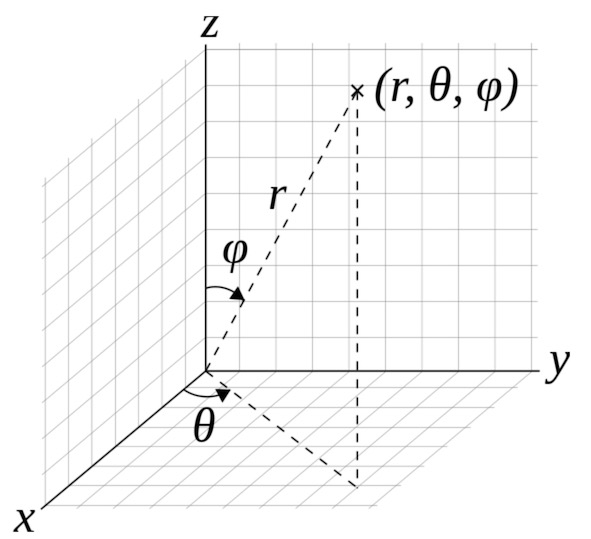
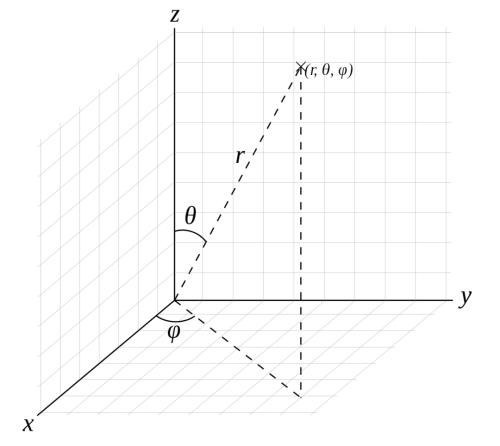
deploy 2020-01-01

diff --git a/css/main.css b/css/main.css
@@ -1,1 +1,1 @@
-html{box-sizing:border-box}*,*::after,*::before{box-sizing:inherit}/*! normalize.css v3.0.2 | MIT License | git.io/normalize */html{font-family:sans-serif;-ms-text-size-adjust:100%;-webkit-text-size-adjust:100%}body{margin:0}.post-content blockquote p{padding-top:0.5em;padding-bottom:0.1em;padding-left:1.0em;border-left-style:solid;border-left-width:0.2px;background:none repeat scroll 0 0 rgba(213,213,213,0.2);color:#605d5d;margin-top:1.0em;margin-bottom:1.0em}.post-content ul{padding:0px;margin:3.6px}.post-content ul li{background-repeat:no-repeat;background-position:0px 5px;padding-left:14px;font-weight:300}.post-content ul li:before{display:inline-block;content:"●";padding-right:10px;color:#666;font-size:6px}article,aside,details,figcaption,figure,footer,header,hgroup,main,menu,nav,section,summary{display:block}audio,canvas,progress,video{display:inline-block;vertical-align:baseline}audio:not([controls]){display:none;height:0}[hidden],template{display:none}a{background-color:transparent}a:active,a:hover{outline:0}abbr[title]{border-bottom:1px dotted}b,strong{font-weight:bold}dfn{font-style:italic}mark{background:#ff0;color:#000}small{font-size:80%}sub,sup{font-size:75%;line-height:0;position:relative;vertical-align:baseline}sup{top:-0.5em}sub{bottom:-0.25em}img{border:0}svg:not(:root){overflow:hidden}figure{margin:1em 40px}hr{box-sizing:content-box;height:0}pre{overflow:auto}code,kbd,pre,samp{font-family:monospace, monospace;font-size:1em}button,input,optgroup,select,textarea{color:inherit;font:inherit;margin:0}button{overflow:visible}button,select{text-transform:none}button,html input[type="button"],input[type="reset"],input[type="submit"]{-webkit-appearance:button;cursor:pointer}button[disabled],html input[disabled]{cursor:default}button::-moz-focus-inner,input::-moz-focus-inner{border:0;padding:0}input{line-height:normal}input[type="checkbox"],input[type="radio"]{box-sizing:border-box;padding:0}input[type="number"]::-webkit-inner-spin-button,input[type="number"]::-webkit-outer-spin-button{height:auto}input[type="search"]{-webkit-appearance:textfield;box-sizing:content-box}input[type="search"]::-webkit-search-cancel-button,input[type="search"]::-webkit-search-decoration{-webkit-appearance:none}fieldset{border:1px solid #c0c0c0;margin:0 2px;padding:0.35em 0.625em 0.75em}legend{border:0;padding:0}textarea{overflow:auto}optgroup{font-weight:bold}table{width:100%;max-width:65em;border:1px solid #dedede;margin:65px;border-collapse:collapse;empty-cells:show}table th,table td{height:35px;border:1px solid #dedede;padding:0 10px}table th{font-weight:bold;text-align:center !important;background:rgba(158,188,226,0.2)}table tbody tr:nth-child(2n){background:rgba(158,188,226,0.12)}table tr:hover{background:#efefef}table th{white-space:nowrap}.table-area{overflow:auto}html,body,div,span,applet,object,iframe,h1,h2,h3,h4,h5,h6,p,blockquote,pre,a,abbr,acronym,address,big,cite,code,del,dfn,em,img,ins,kbd,q,s,samp,small,strike,strong,sub,sup,tt,var,b,u,i,center,dl,dt,dd,ol,ul,li,fieldset,form,label,legend,table,caption,tbody,tfoot,thead,tr,th,td,article,aside,canvas,details,embed,figure,figcaption,footer,header,hgroup,menu,nav,output,ruby,section,summary,time,mark,audio,video{margin:0;padding:0;border:0;font-size:100%;font:inherit;vertical-align:baseline}article,aside,details,figcaption,figure,footer,header,hgroup,menu,nav,section{display:block}body{line-height:1}ol,ul{list-style:none}blockquote,q{quotes:none}blockquote:before,blockquote:after,q:before,q:after{content:'';content:none}table{border-collapse:collapse;border-spacing:0}.btn,.sliding-panel-button{appearance:none;background-color:#337ab7;border:0;border-radius:3px;color:#fff;cursor:pointer;display:inline-block;font-family:"Open Sans","Helvetica Neue","Helvetica","Roboto","Arial",sans-serif;font-size:1em;-webkit-font-smoothing:antialiased;font-weight:600;line-height:1;padding:.75em 1.5em;text-decoration:none;transition:background-color .2s ease;user-select:none;vertical-align:middle;white-space:nowrap}.btn:hover,.sliding-panel-button:hover,.btn:focus,.sliding-panel-button:focus{background-color:#296292;color:#fff}.btn:disabled,.sliding-panel-button:disabled{cursor:not-allowed;opacity:0.5}.btn:disabled:hover,.sliding-panel-button:disabled:hover{background-color:#337ab7}fieldset{background-color:#f7f7f7;border:1px solid #dedede;margin:0 0 .75em;padding:1.5em}input,label,select{display:block;font-family:"Open Sans","Helvetica Neue","Helvetica","Roboto","Arial",sans-serif;font-size:1em}label{font-weight:600;margin-bottom:.375em}label.required::after{content:"*"}label abbr{display:none}input[type="color"],input[type="date"],input[type="datetime"],input[type="datetime-local"],input[type="email"],input[type="month"],input[type="number"],input[type="password"],input[type="search"],input[type="tel"],input[type="text"],input[type="time"],input[type="url"],input[type="week"],input:not([type]),textarea,select[multiple=multiple]{background-color:#fff;border:1px solid #dedede;border-radius:3px;box-shadow:inset 0 1px 3px rgba(0,0,0,0.06);box-sizing:border-box;font-family:"Open Sans","Helvetica Neue","Helvetica","Roboto","Arial",sans-serif;font-size:1em;margin-bottom:.75em;padding:.5em;transition:border-color .2s ease;width:100%}input[type="color"]:hover,input[type="date"]:hover,input[type="datetime"]:hover,input[type="datetime-local"]:hover,input[type="email"]:hover,input[type="month"]:hover,input[type="number"]:hover,input[type="password"]:hover,input[type="search"]:hover,input[type="tel"]:hover,input[type="text"]:hover,input[type="time"]:hover,input[type="url"]:hover,input[type="week"]:hover,input:not([type]):hover,textarea:hover,select[multiple=multiple]:hover{border-color:#b2b2b2}input[type="color"]:focus,input[type="date"]:focus,input[type="datetime"]:focus,input[type="datetime-local"]:focus,input[type="email"]:focus,input[type="month"]:focus,input[type="number"]:focus,input[type="password"]:focus,input[type="search"]:focus,input[type="tel"]:focus,input[type="text"]:focus,input[type="time"]:focus,input[type="url"]:focus,input[type="week"]:focus,input:not([type]):focus,textarea:focus,select[multiple=multiple]:focus{border-color:#337ab7;box-shadow:inset 0 1px 3px rgba(0,0,0,0.06),0 0 5px rgba(45,109,163,0.7);outline:none}input[type="color"]:disabled,input[type="date"]:disabled,input[type="datetime"]:disabled,input[type="datetime-local"]:disabled,input[type="email"]:disabled,input[type="month"]:disabled,input[type="number"]:disabled,input[type="password"]:disabled,input[type="search"]:disabled,input[type="tel"]:disabled,input[type="text"]:disabled,input[type="time"]:disabled,input[type="url"]:disabled,input[type="week"]:disabled,input:not([type]):disabled,textarea:disabled,select[multiple=multiple]:disabled{background-color:#f2f2f2;cursor:not-allowed}input[type="color"]:disabled:hover,input[type="date"]:disabled:hover,input[type="datetime"]:disabled:hover,input[type="datetime-local"]:disabled:hover,input[type="email"]:disabled:hover,input[type="month"]:disabled:hover,input[type="number"]:disabled:hover,input[type="password"]:disabled:hover,input[type="search"]:disabled:hover,input[type="tel"]:disabled:hover,input[type="text"]:disabled:hover,input[type="time"]:disabled:hover,input[type="url"]:disabled:hover,input[type="week"]:disabled:hover,input:not([type]):disabled:hover,textarea:disabled:hover,select[multiple=multiple]:disabled:hover{border:1px solid #dedede}textarea{resize:vertical}input[type="search"]{appearance:none}input[type="checkbox"],input[type="radio"]{display:inline;margin-right:.375em}input[type="checkbox"]+label,input[type="radio"]+label{display:inline-block}input[type="file"]{margin-bottom:.75em;width:100%}select{margin-bottom:1.5em;max-width:100%;width:auto}ul,ol{list-style-type:none;margin:0;padding:0}dl{margin-bottom:.75em}dl dt{font-weight:bold;margin-top:.75em}dl dd{margin:0}table{border-collapse:collapse;font-feature-settings:"kern", "liga", "tnum";margin:.75em 0;table-layout:fixed;width:100%}th{border-bottom:1px solid #a7a7a7;font-weight:600;padding:.75em 0;text-align:left}td{border-bottom:1px solid #dedede;padding:.75em 0}tr,td,th{vertical-align:middle}body{color:#636363;font-family:"Open Sans","Helvetica Neue","Helvetica","Roboto","Arial",sans-serif;font-feature-settings:"kern", "liga", "pnum";font-size:1em;font-weight:400;line-height:1.5}p{margin:0 0 .75em;font-weight:300}em{font-style:italic}small{font-size:80%}a{color:#337ab7;text-decoration:none;-webkit-transition:color .2s ease;-moz-transition:color .2s ease;transition:color .2s ease}a:active,a:focus,a:hover{color:#265c89}hr{border-bottom:1px solid #dedede;border-left:0;border-right:0;border-top:0;margin:1.5em 0}img,picture{margin:0;max-width:100%}code{padding:2px 4px;font-family:Consolas, "Liberation Mono", Menlo, Courier, monospace;font-size:0.9rem;color:#222323;background-color:#f6f6f8;border-radius:0.3rem}pre{padding:0.8rem;margin-top:0;margin-bottom:1rem;font:1rem Consolas, "Liberation Mono", Menlo, Courier, monospace;color:#222323;word-wrap:normal;background-color:#f6f6f8;border:solid 1px #dce6f0;border-radius:0.3rem}pre>code{padding:0;margin:0;font-size:0.9rem;line-height:22px;color:#222323;word-break:normal;white-space:pre;background:transparent;border:0}.highlight{margin-bottom:1rem}.highlight pre{margin-bottom:0;word-break:normal}pre code,pre tt{display:inline;max-width:initial;padding:0;margin:0;overflow:initial;line-height:21px;word-wrap:normal;background-color:transparent;border:0}pre code:before,pre code:after,pre tt:before,pre tt:after{content:normal}.txt-primary{color:#337ab7}.txt-white{color:#fff}.txt-black{color:#000}.txt-blue{color:#477dca}.txt-dark-gray{color:#232323}.txt-medium-gray{color:#9a9a9a}.txt-light-gray{color:#dedede}.txt-left{text-align:left}.txt-right{text-align:right}.txt-center{text-align:center}.txt-justify{text-align:justify}.word-wrap{overflow-wrap:break-word;word-wrap:break-word;word-break:break-all}.dot{border-radius:50%}.site-header::after,.social::after,.pagination::after{clear:both;content:"";display:table}html,body{min-height:100%;height:100%}body{border-top:5px solid #337ab7;background:#fff url("../img/bg-pattern.png")}.container{max-width:800px;margin-left:auto;margin-right:auto;padding-left:.75em;padding-right:.75em}.container::after{clear:both;content:"";display:table}.card,.post-list .post{background-color:#fff;box-shadow:0 2px 1px rgba(0,0,0,0.1);margin:0 0 1.5em;padding:1.5em .75em}@media screen and (min-width: 480px){.card,.post-list .post{padding:1.5em}}.site-header{background-color:#fff;padding:1.5em 0;margin-bottom:1.5em;border-bottom:1px solid rgba(222,222,222,0.5)}.site-header h1{margin:0;padding:5px 0;float:left;font-weight:400;font-size:1.25rem}.site-header h1 span{color:#337ab7}.site-header h1,.site-header a{text-transform:lowercase}.site-header .navbar{float:right}.site-header a{color:#9a9a9a}.site-header a:hover,.site-header a:focus,.site-header a:active{color:#232323}@media screen and (max-width: 480px){.site-header .container{padding-left:1.5em;padding-right:1.5em}}.sliding-panel-button{float:right;padding:5px}.sliding-panel-button span{width:30px;display:block;height:3px;border-radius:2px;background:#fff;margin:3px 0}@media screen and (min-width: 480px){.sliding-panel-button{display:none}}@media screen and (max-width: 480px){.sliding-panel-content{border-top:5px solid #337ab7;position:fixed;top:0;right:auto;bottom:0;left:0;height:100%;width:220px;-webkit-transform:translateX(-100%);-moz-transform:translateX(-100%);-ms-transform:translateX(-100%);-o-transform:translateX(-100%);transform:translateX(-100%);-webkit-transition:all 0.25s linear;-moz-transition:all 0.25s linear;transition:all 0.25s linear;background:#fff;-webkit-overflow-scrolling:touch;overflow-y:auto;z-index:999999}.sliding-panel-content.is-visible{-webkit-transform:translateX(0);-moz-transform:translateX(0);-ms-transform:translateX(0);-o-transform:translateX(0);transform:translateX(0)}.sliding-panel-fade-screen{position:fixed;top:0;right:0;bottom:0;left:0;-webkit-transition:all 0.15s ease-out 0s;-moz-transition:all 0.15s ease-out 0s;transition:all 0.15s ease-out 0s;background:#000;opacity:0;visibility:hidden;z-index:9999}.sliding-panel-fade-screen.is-visible{opacity:0.4;visibility:visible}.sliding-panel-close{cursor:pointer}}.navbar li,.navbar a{display:inline-block}.navbar a{padding:5px 15px}@media screen and (max-width: 600px){.navbar a{padding:5px 10px}}@media screen and (max-width: 480px){.navbar li,.navbar a{display:block;text-align:center}.navbar li{border-bottom:1px solid #f2f2f2}.navbar a{padding:15px 0}}.btn.btn-ghost,.btn-ghost.sliding-panel-button{background-color:transparent;border:2px solid #337ab7;color:#337ab7}.btn.disabled,.disabled.sliding-panel-button,.btn[disabled],[disabled].sliding-panel-button,fieldset[disabled] .btn,fieldset[disabled] .sliding-panel-button{cursor:not-allowed;filter:alpha(opacity=65);-webkit-box-shadow:none;box-shadow:none;opacity:.65}body.home{width:100%;display:table}.hero{text-align:center;display:table-cell;vertical-align:middle}.hero-inner{text-align:center;display:inline-block;padding:1.5em}.hero-inner .dot{padding:5px;border:1px solid #dedede}.hero-inner h1{margin-top:.7em;font-size:2.5rem}.hero-inner h3{margin:.8em 0 1.2em}@media screen and (min-width: 600px){.hero-inner h3{font-size:1.5rem}}.hero-inner h3,.hero-inner em{font-weight:300}.hero-inner em{color:#337ab7}.hero-inner strong{font-weight:700}.post{padding:1.5em 0}.post-header{margin-bottom:1.5em}.post-title{font-size:2.5rem;margin-bottom:0;line-height:1.5em}.post-title2{font-size:1.5625rem;margin-bottom:0;line-height:1.4em}.post-list .post a{color:#636363}.post-list .post a:hover,.post-list .post a:active,.post-list .post a:focus{color:#337ab7}.social{padding:1.5em 0}.social li{display:inline-block;padding:0 .6em}.social a{color:#9a9a9a}.social a:hover,.social a:active,.social a:focus{color:#337ab7}.social i{font-size:1.2em}.pagination{text-align:center;margin:2em 0}.pagination li{padding:0 .4em}.pagination li,.pagination a,.pagination span{display:inline-block}.pagination a,.pagination span{line-height:1.2em;font-size:.75rem}.pagination .btn,.pagination .sliding-panel-button{color:#636363;border-color:rgba(222,222,222,0.8)}.pagination span{color:#aaa;font-style:italic}.site-footer{background-color:#fff;border-top:1px solid rgba(222,222,222,0.5);padding:1.5em;text-align:center}.site-footer p{margin:0}.github-corner:hover .octo-arm{animation:octocat-wave 560ms ease-in-out}@keyframes octocat-wave{0%,100%{transform:rotate(0)}20%,60%{transform:rotate(-25deg)}40%,80%{transform:rotate(10deg)}}@media (max-width: 500px){.github-corner:hover .octo-arm{animation:none}.github-corner .octo-arm{animation:octocat-wave 560ms ease-in-out}}@font-face{font-family:"ico";src:url("../fonts/ico.eot?vs69d0");src:url("../fonts/ico.eot?vs69d0#iefix") format("embedded-opentype"),url("../fonts/ico.ttf?vs69d0") format("truetype"),url("../fonts/ico.woff?vs69d0") format("woff"),url("../fonts/ico.svg?vs69d0#ico") format("svg");font-weight:normal;font-style:normal}.icon{font-family:"ico" !important;speak:none;font-style:normal;font-weight:normal;font-variant:normal;text-transform:none;line-height:1;-webkit-font-smoothing:antialiased;-moz-osx-font-smoothing:grayscale}.icon-home:before{content:""}.icon-zhihu:before{content:""}.icon-share:before{content:""}.icon-sina:before{content:""}.icon-facebook:before{content:""}.icon-twitter:before{content:""}.icon-feed:before{content:""}.icon-github:before{content:""}.icon-linkedin:before{content:""}.highlight .hll{background-color:#ffc}.highlight{background:#ffffff}.highlight .c{color:#aaaaaa;font-style:italic}.highlight .err{color:#FF0000;background-color:#faa}.highlight .k{color:#00a}.highlight .ch{color:#aaaaaa;font-style:italic}.highlight .cm{color:#aaaaaa;font-style:italic}.highlight .cp{color:#4c8317}.highlight .cpf{color:#aaaaaa;font-style:italic}.highlight .c1{color:#aaaaaa;font-style:italic}.highlight .cs{color:#0000aa;font-style:italic}.highlight .gd{color:#a00}.highlight .ge{font-style:italic}.highlight .gr{color:#a00}.highlight .gh{color:#000080;font-weight:bold}.highlight .gi{color:#0a0}.highlight .go{color:#888}.highlight .gp{color:#555}.highlight .gs{font-weight:bold}.highlight .gu{color:#800080;font-weight:bold}.highlight .gt{color:#a00}.highlight .kc{color:#00a}.highlight .kd{color:#00a}.highlight .kn{color:#00a}.highlight .kp{color:#00a}.highlight .kr{color:#00a}.highlight .kt{color:#0aa}.highlight .m{color:#099}.highlight .s{color:#a50}.highlight .na{color:#1e90ff}.highlight .nb{color:#0aa}.highlight .nc{color:#00aa00;text-decoration:underline}.highlight .no{color:#a00}.highlight .nd{color:#888}.highlight .ni{color:#880000;font-weight:bold}.highlight .nf{color:#0a0}.highlight .nn{color:#00aaaa;text-decoration:underline}.highlight .nt{color:#1e90ff;font-weight:bold}.highlight .nv{color:#a00}.highlight .ow{color:#00a}.highlight .w{color:#bbb}.highlight .mb{color:#099}.highlight .mf{color:#099}.highlight .mh{color:#099}.highlight .mi{color:#099}.highlight .mo{color:#099}.highlight .sa{color:#a50}.highlight .sb{color:#a50}.highlight .sc{color:#a50}.highlight .dl{color:#a50}.highlight .sd{color:#a50}.highlight .s2{color:#a50}.highlight .se{color:#a50}.highlight .sh{color:#a50}.highlight .si{color:#a50}.highlight .sx{color:#a50}.highlight .sr{color:#099}.highlight .s1{color:#a50}.highlight .ss{color:#00a}.highlight .bp{color:#0aa}.highlight .fm{color:#0a0}.highlight .vc{color:#a00}.highlight .vg{color:#a00}.highlight .vi{color:#a00}.highlight .vm{color:#a00}.highlight .il{color:#099}@media screen and (min-width: 64em){max-width:64rem;padding:2rem 6rem;margin:0 auto;font-size:1.1rem}@media screen and (min-width: 42em) and (max-width: 64em){padding:2rem 4rem;font-size:1.1rem}@media screen and (max-width: 42em){padding:2rem 1rem;font-size:1rem}img{max-width:100%}h1{margin:0.67em 0.0em}h2,h3{margin-top:2rem;margin-bottom:1rem;font-weight:normal;color:#505050}h4,h5,h6{margin-top:1.0rem;margin-bottom:0.4rem;font-weight:normal;color:#505050}h1{font-size:2.2rem}h2{font-size:1.8rem}h3{font-size:1.5rem}h4{font-size:1.3rem}h5{font-size:1.2rem}h6{font-size:1.1rem}
+html{box-sizing:border-box}*,*::after,*::before{box-sizing:inherit}/*! normalize.css v3.0.2 | MIT License | git.io/normalize */html{font-family:sans-serif;-ms-text-size-adjust:100%;-webkit-text-size-adjust:100%}body{margin:0}.post-content blockquote p{padding-top:0.5em;padding-bottom:0.1em;padding-left:1.0em;border-left-style:solid;border-left-width:0.2px;background:none repeat scroll 0 0 rgba(213,213,213,0.2);color:#605d5d;margin-top:1.0em;margin-bottom:1.0em}.post-content ul{padding:0px;margin:3.6px}.post-content ul li{background-repeat:no-repeat;background-position:0px 5px;padding-left:14px;font-weight:300}.post-content ul li:before{display:inline-block;content:"●";padding-right:10px;color:#666;font-size:6px}article,aside,details,figcaption,figure,footer,header,hgroup,main,menu,nav,section,summary{display:block}audio,canvas,progress,video{display:inline-block;vertical-align:baseline}audio:not([controls]){display:none;height:0}[hidden],template{display:none}a{background-color:transparent}a:active,a:hover{outline:0}abbr[title]{border-bottom:1px dotted}b,strong{font-weight:bold}dfn{font-style:italic}mark{background:#ff0;color:#000}small{font-size:80%}sub,sup{font-size:75%;line-height:0;position:relative;vertical-align:baseline}sup{top:-0.5em}sub{bottom:-0.25em}img{border:0}svg:not(:root){overflow:hidden}figure{margin:1em 40px}hr{box-sizing:content-box;height:0}pre{overflow:auto}code,kbd,pre,samp{font-family:monospace, monospace;font-size:1em}button,input,optgroup,select,textarea{color:inherit;font:inherit;margin:0}button{overflow:visible}button,select{text-transform:none}button,html input[type="button"],input[type="reset"],input[type="submit"]{-webkit-appearance:button;cursor:pointer}button[disabled],html input[disabled]{cursor:default}button::-moz-focus-inner,input::-moz-focus-inner{border:0;padding:0}input{line-height:normal}input[type="checkbox"],input[type="radio"]{box-sizing:border-box;padding:0}input[type="number"]::-webkit-inner-spin-button,input[type="number"]::-webkit-outer-spin-button{height:auto}input[type="search"]{-webkit-appearance:textfield;box-sizing:content-box}input[type="search"]::-webkit-search-cancel-button,input[type="search"]::-webkit-search-decoration{-webkit-appearance:none}fieldset{border:1px solid #c0c0c0;margin:0 2px;padding:0.35em 0.625em 0.75em}legend{border:0;padding:0}textarea{overflow:auto}optgroup{font-weight:bold}table{width:100%;max-width:65em;border:1px solid #dedede;margin:65px;border-collapse:collapse;empty-cells:show}table th,table td{height:35px;border:1px solid #dedede;padding:0 10px}table th{font-weight:bold;text-align:center !important;background:rgba(158,188,226,0.2)}table tbody tr:nth-child(2n){background:rgba(158,188,226,0.12)}table tr:hover{background:#efefef}table th{white-space:nowrap}.table-area{overflow:auto}html,body,div,span,applet,object,iframe,h1,h2,h3,h4,h5,h6,p,blockquote,pre,a,abbr,acronym,address,big,cite,code,del,dfn,em,img,ins,kbd,q,s,samp,small,strike,sub,sup,tt,var,u,i,center,dl,dt,dd,ol,ul,li,fieldset,form,label,legend,table,caption,tbody,tfoot,thead,tr,th,td,article,aside,canvas,details,embed,figure,figcaption,footer,header,hgroup,menu,nav,output,ruby,section,summary,time,mark,audio,video{margin:0;padding:0;border:0;font-size:100%;font:inherit;vertical-align:baseline}article,aside,details,figcaption,figure,footer,header,hgroup,menu,nav,section{display:block}body{line-height:1}ol,ul{list-style:none}blockquote,q{quotes:none}blockquote:before,blockquote:after,q:before,q:after{content:'';content:none}table{border-collapse:collapse;border-spacing:0}.btn,.sliding-panel-button{appearance:none;background-color:#337ab7;border:0;border-radius:3px;color:#fff;cursor:pointer;display:inline-block;font-family:"Open Sans","Helvetica Neue","Helvetica","Roboto","Arial",sans-serif;font-size:1em;-webkit-font-smoothing:antialiased;font-weight:600;line-height:1;padding:.75em 1.5em;text-decoration:none;transition:background-color .2s ease;user-select:none;vertical-align:middle;white-space:nowrap}.btn:hover,.sliding-panel-button:hover,.btn:focus,.sliding-panel-button:focus{background-color:#296292;color:#fff}.btn:disabled,.sliding-panel-button:disabled{cursor:not-allowed;opacity:0.5}.btn:disabled:hover,.sliding-panel-button:disabled:hover{background-color:#337ab7}fieldset{background-color:#f7f7f7;border:1px solid #dedede;margin:0 0 .75em;padding:1.5em}input,label,select{display:block;font-family:"Open Sans","Helvetica Neue","Helvetica","Roboto","Arial",sans-serif;font-size:1em}label{font-weight:600;margin-bottom:.375em}label.required::after{content:"*"}label abbr{display:none}input[type="color"],input[type="date"],input[type="datetime"],input[type="datetime-local"],input[type="email"],input[type="month"],input[type="number"],input[type="password"],input[type="search"],input[type="tel"],input[type="text"],input[type="time"],input[type="url"],input[type="week"],input:not([type]),textarea,select[multiple=multiple]{background-color:#fff;border:1px solid #dedede;border-radius:3px;box-shadow:inset 0 1px 3px rgba(0,0,0,0.06);box-sizing:border-box;font-family:"Open Sans","Helvetica Neue","Helvetica","Roboto","Arial",sans-serif;font-size:1em;margin-bottom:.75em;padding:.5em;transition:border-color .2s ease;width:100%}input[type="color"]:hover,input[type="date"]:hover,input[type="datetime"]:hover,input[type="datetime-local"]:hover,input[type="email"]:hover,input[type="month"]:hover,input[type="number"]:hover,input[type="password"]:hover,input[type="search"]:hover,input[type="tel"]:hover,input[type="text"]:hover,input[type="time"]:hover,input[type="url"]:hover,input[type="week"]:hover,input:not([type]):hover,textarea:hover,select[multiple=multiple]:hover{border-color:#b2b2b2}input[type="color"]:focus,input[type="date"]:focus,input[type="datetime"]:focus,input[type="datetime-local"]:focus,input[type="email"]:focus,input[type="month"]:focus,input[type="number"]:focus,input[type="password"]:focus,input[type="search"]:focus,input[type="tel"]:focus,input[type="text"]:focus,input[type="time"]:focus,input[type="url"]:focus,input[type="week"]:focus,input:not([type]):focus,textarea:focus,select[multiple=multiple]:focus{border-color:#337ab7;box-shadow:inset 0 1px 3px rgba(0,0,0,0.06),0 0 5px rgba(45,109,163,0.7);outline:none}input[type="color"]:disabled,input[type="date"]:disabled,input[type="datetime"]:disabled,input[type="datetime-local"]:disabled,input[type="email"]:disabled,input[type="month"]:disabled,input[type="number"]:disabled,input[type="password"]:disabled,input[type="search"]:disabled,input[type="tel"]:disabled,input[type="text"]:disabled,input[type="time"]:disabled,input[type="url"]:disabled,input[type="week"]:disabled,input:not([type]):disabled,textarea:disabled,select[multiple=multiple]:disabled{background-color:#f2f2f2;cursor:not-allowed}input[type="color"]:disabled:hover,input[type="date"]:disabled:hover,input[type="datetime"]:disabled:hover,input[type="datetime-local"]:disabled:hover,input[type="email"]:disabled:hover,input[type="month"]:disabled:hover,input[type="number"]:disabled:hover,input[type="password"]:disabled:hover,input[type="search"]:disabled:hover,input[type="tel"]:disabled:hover,input[type="text"]:disabled:hover,input[type="time"]:disabled:hover,input[type="url"]:disabled:hover,input[type="week"]:disabled:hover,input:not([type]):disabled:hover,textarea:disabled:hover,select[multiple=multiple]:disabled:hover{border:1px solid #dedede}textarea{resize:vertical}input[type="search"]{appearance:none}input[type="checkbox"],input[type="radio"]{display:inline;margin-right:.375em}input[type="checkbox"]+label,input[type="radio"]+label{display:inline-block}input[type="file"]{margin-bottom:.75em;width:100%}select{margin-bottom:1.5em;max-width:100%;width:auto}ul,ol{list-style-type:none;margin:0;padding:0}dl{margin-bottom:.75em}dl dt{font-weight:bold;margin-top:.75em}dl dd{margin:0}table{border-collapse:collapse;font-feature-settings:"kern", "liga", "tnum";margin:.75em 0;table-layout:fixed;width:100%}th{border-bottom:1px solid #a7a7a7;font-weight:600;padding:.75em 0;text-align:left}td{border-bottom:1px solid #dedede;padding:.75em 0}tr,td,th{vertical-align:middle}body{color:#636363;font-family:"Open Sans","Helvetica Neue","Helvetica","Roboto","Arial",sans-serif;font-feature-settings:"kern", "liga", "pnum";font-size:1em;font-weight:400;line-height:1.5}p{margin:0 0 .75em;font-weight:300}em{font-style:italic}small{font-size:80%}a{color:#337ab7;text-decoration:none;-webkit-transition:color .2s ease;-moz-transition:color .2s ease;transition:color .2s ease}a:active,a:focus,a:hover{color:#265c89}hr{border-bottom:1px solid #dedede;border-left:0;border-right:0;border-top:0;margin:1.5em 0}img,picture{margin:0;max-width:100%}code{padding:2px 4px;font-family:Consolas, "Liberation Mono", Menlo, Courier, monospace;font-size:0.9rem;color:#222323;background-color:#f6f6f8;border-radius:0.3rem}pre{padding:0.8rem;margin-top:0;margin-bottom:1rem;font:1rem Consolas, "Liberation Mono", Menlo, Courier, monospace;color:#222323;word-wrap:normal;background-color:#f6f6f8;border:solid 1px #dce6f0;border-radius:0.3rem}pre>code{padding:0;margin:0;font-size:0.9rem;line-height:22px;color:#222323;word-break:normal;white-space:pre;background:transparent;border:0}.highlight{margin-bottom:1rem}.highlight pre{margin-bottom:0;word-break:normal}pre code,pre tt{display:inline;max-width:initial;padding:0;margin:0;overflow:initial;line-height:21px;word-wrap:normal;background-color:transparent;border:0}pre code:before,pre code:after,pre tt:before,pre tt:after{content:normal}.txt-primary{color:#337ab7}.txt-white{color:#fff}.txt-black{color:#000}.txt-blue{color:#477dca}.txt-dark-gray{color:#232323}.txt-medium-gray{color:#9a9a9a}.txt-light-gray{color:#dedede}.txt-left{text-align:left}.txt-right{text-align:right}.txt-center{text-align:center}.txt-justify{text-align:justify}.word-wrap{overflow-wrap:break-word;word-wrap:break-word;word-break:break-all}.dot{border-radius:50%}.site-header::after,.social::after,.pagination::after{clear:both;content:"";display:table}html,body{min-height:100%;height:100%}body{border-top:5px solid #337ab7;background:#fff url("../img/bg-pattern.png")}.container{max-width:800px;margin-left:auto;margin-right:auto;padding-left:.75em;padding-right:.75em}.container::after{clear:both;content:"";display:table}.card,.post-list .post{background-color:#fff;box-shadow:0 2px 1px rgba(0,0,0,0.1);margin:0 0 1.5em;padding:1.5em .75em}@media screen and (min-width: 480px){.card,.post-list .post{padding:1.5em}}.site-header{background-color:#fff;padding:1.5em 0;margin-bottom:1.5em;border-bottom:1px solid rgba(222,222,222,0.5)}.site-header h1{margin:0;padding:5px 0;float:left;font-weight:400;font-size:1.25rem}.site-header h1 span{color:#337ab7}.site-header h1,.site-header a{text-transform:lowercase}.site-header .navbar{float:right}.site-header a{color:#9a9a9a}.site-header a:hover,.site-header a:focus,.site-header a:active{color:#232323}@media screen and (max-width: 480px){.site-header .container{padding-left:1.5em;padding-right:1.5em}}.sliding-panel-button{float:right;padding:5px}.sliding-panel-button span{width:30px;display:block;height:3px;border-radius:2px;background:#fff;margin:3px 0}@media screen and (min-width: 480px){.sliding-panel-button{display:none}}@media screen and (max-width: 480px){.sliding-panel-content{border-top:5px solid #337ab7;position:fixed;top:0;right:auto;bottom:0;left:0;height:100%;width:220px;-webkit-transform:translateX(-100%);-moz-transform:translateX(-100%);-ms-transform:translateX(-100%);-o-transform:translateX(-100%);transform:translateX(-100%);-webkit-transition:all 0.25s linear;-moz-transition:all 0.25s linear;transition:all 0.25s linear;background:#fff;-webkit-overflow-scrolling:touch;overflow-y:auto;z-index:999999}.sliding-panel-content.is-visible{-webkit-transform:translateX(0);-moz-transform:translateX(0);-ms-transform:translateX(0);-o-transform:translateX(0);transform:translateX(0)}.sliding-panel-fade-screen{position:fixed;top:0;right:0;bottom:0;left:0;-webkit-transition:all 0.15s ease-out 0s;-moz-transition:all 0.15s ease-out 0s;transition:all 0.15s ease-out 0s;background:#000;opacity:0;visibility:hidden;z-index:9999}.sliding-panel-fade-screen.is-visible{opacity:0.4;visibility:visible}.sliding-panel-close{cursor:pointer}}.navbar li,.navbar a{display:inline-block}.navbar a{padding:5px 15px}@media screen and (max-width: 600px){.navbar a{padding:5px 10px}}@media screen and (max-width: 480px){.navbar li,.navbar a{display:block;text-align:center}.navbar li{border-bottom:1px solid #f2f2f2}.navbar a{padding:15px 0}}.btn.btn-ghost,.btn-ghost.sliding-panel-button{background-color:transparent;border:2px solid #337ab7;color:#337ab7}.btn.disabled,.disabled.sliding-panel-button,.btn[disabled],[disabled].sliding-panel-button,fieldset[disabled] .btn,fieldset[disabled] .sliding-panel-button{cursor:not-allowed;filter:alpha(opacity=65);-webkit-box-shadow:none;box-shadow:none;opacity:.65}body.home{width:100%;display:table}.hero{text-align:center;display:table-cell;vertical-align:middle}.hero-inner{text-align:center;display:inline-block;padding:1.5em}.hero-inner .dot{padding:5px;border:1px solid #dedede}.hero-inner h1{margin-top:.7em;font-size:2.5rem}.hero-inner h3{margin:.8em 0 1.2em}@media screen and (min-width: 600px){.hero-inner h3{font-size:1.5rem}}.hero-inner h3,.hero-inner em{font-weight:300}.hero-inner em{color:#337ab7}.hero-inner strong{font-weight:700}.post{padding:1.5em 0}.post-header{margin-bottom:1.5em}.post-title{font-size:2.5rem;margin-bottom:0;line-height:1.5em}.post-title2{font-size:1.5625rem;margin-bottom:0;line-height:1.4em}.post-list .post a{color:#636363}.post-list .post a:hover,.post-list .post a:active,.post-list .post a:focus{color:#337ab7}.social{padding:1.5em 0}.social li{display:inline-block;padding:0 .6em}.social a{color:#9a9a9a}.social a:hover,.social a:active,.social a:focus{color:#337ab7}.social i{font-size:1.2em}.pagination{text-align:center;margin:2em 0}.pagination li{padding:0 .4em}.pagination li,.pagination a,.pagination span{display:inline-block}.pagination a,.pagination span{line-height:1.2em;font-size:.75rem}.pagination .btn,.pagination .sliding-panel-button{color:#636363;border-color:rgba(222,222,222,0.8)}.pagination span{color:#aaa;font-style:italic}.site-footer{background-color:#fff;border-top:1px solid rgba(222,222,222,0.5);padding:1.5em;text-align:center}.site-footer p{margin:0}.github-corner:hover .octo-arm{animation:octocat-wave 560ms ease-in-out}@keyframes octocat-wave{0%,100%{transform:rotate(0)}20%,60%{transform:rotate(-25deg)}40%,80%{transform:rotate(10deg)}}@media (max-width: 500px){.github-corner:hover .octo-arm{animation:none}.github-corner .octo-arm{animation:octocat-wave 560ms ease-in-out}}@font-face{font-family:"ico";src:url("../fonts/ico.eot?vs69d0");src:url("../fonts/ico.eot?vs69d0#iefix") format("embedded-opentype"),url("../fonts/ico.ttf?vs69d0") format("truetype"),url("../fonts/ico.woff?vs69d0") format("woff"),url("../fonts/ico.svg?vs69d0#ico") format("svg");font-weight:normal;font-style:normal}.icon{font-family:"ico" !important;speak:none;font-style:normal;font-weight:normal;font-variant:normal;text-transform:none;line-height:1;-webkit-font-smoothing:antialiased;-moz-osx-font-smoothing:grayscale}.icon-home:before{content:""}.icon-zhihu:before{content:""}.icon-share:before{content:""}.icon-sina:before{content:""}.icon-facebook:before{content:""}.icon-twitter:before{content:""}.icon-feed:before{content:""}.icon-github:before{content:""}.icon-linkedin:before{content:""}.highlight .hll{background-color:#ffc}.highlight{background:#ffffff}.highlight .c{color:#aaaaaa;font-style:italic}.highlight .err{color:#FF0000;background-color:#faa}.highlight .k{color:#00a}.highlight .ch{color:#aaaaaa;font-style:italic}.highlight .cm{color:#aaaaaa;font-style:italic}.highlight .cp{color:#4c8317}.highlight .cpf{color:#aaaaaa;font-style:italic}.highlight .c1{color:#aaaaaa;font-style:italic}.highlight .cs{color:#0000aa;font-style:italic}.highlight .gd{color:#a00}.highlight .ge{font-style:italic}.highlight .gr{color:#a00}.highlight .gh{color:#000080;font-weight:bold}.highlight .gi{color:#0a0}.highlight .go{color:#888}.highlight .gp{color:#555}.highlight .gs{font-weight:bold}.highlight .gu{color:#800080;font-weight:bold}.highlight .gt{color:#a00}.highlight .kc{color:#00a}.highlight .kd{color:#00a}.highlight .kn{color:#00a}.highlight .kp{color:#00a}.highlight .kr{color:#00a}.highlight .kt{color:#0aa}.highlight .m{color:#099}.highlight .s{color:#a50}.highlight .na{color:#1e90ff}.highlight .nb{color:#0aa}.highlight .nc{color:#00aa00;text-decoration:underline}.highlight .no{color:#a00}.highlight .nd{color:#888}.highlight .ni{color:#880000;font-weight:bold}.highlight .nf{color:#0a0}.highlight .nn{color:#00aaaa;text-decoration:underline}.highlight .nt{color:#1e90ff;font-weight:bold}.highlight .nv{color:#a00}.highlight .ow{color:#00a}.highlight .w{color:#bbb}.highlight .mb{color:#099}.highlight .mf{color:#099}.highlight .mh{color:#099}.highlight .mi{color:#099}.highlight .mo{color:#099}.highlight .sa{color:#a50}.highlight .sb{color:#a50}.highlight .sc{color:#a50}.highlight .dl{color:#a50}.highlight .sd{color:#a50}.highlight .s2{color:#a50}.highlight .se{color:#a50}.highlight .sh{color:#a50}.highlight .si{color:#a50}.highlight .sx{color:#a50}.highlight .sr{color:#099}.highlight .s1{color:#a50}.highlight .ss{color:#00a}.highlight .bp{color:#0aa}.highlight .fm{color:#0a0}.highlight .vc{color:#a00}.highlight .vg{color:#a00}.highlight .vi{color:#a00}.highlight .vm{color:#a00}.highlight .il{color:#099}@media screen and (min-width: 64em){max-width:64rem;padding:2rem 6rem;margin:0 auto;font-size:1.1rem}@media screen and (min-width: 42em) and (max-width: 64em){padding:2rem 4rem;font-size:1.1rem}@media screen and (max-width: 42em){padding:2rem 1rem;font-size:1rem}img{max-width:100%}h1{margin:0.67em 0.0em}h2,h3{margin-top:2rem;margin-bottom:1rem;font-weight:normal;color:#505050}h4,h5,h6{margin-top:1.0rem;margin-bottom:0.4rem;font-weight:normal;color:#505050}h1{font-size:2.2rem}h2{font-size:1.8rem}h3{font-size:1.5rem}h4{font-size:1.3rem}h5{font-size:1.2rem}h6{font-size:1.1rem}

diff --git a/blog/2019/harmonics/index.html b/blog/2019/harmonics/index.html
@@ -98,12 +98,14 @@ MathJax.Hub.Config({
 <script type="math/tex; mode=display">% <![CDATA[
 Y_l^m=
 \begin{cases}
-{\sqrt{2}}  K_l^mcos(m\phi)P_l^m(cos\theta)& \text{(m>0)}\\
-{\sqrt{2}}  K_l^{m}sin(-m\phi)P_l^{-m}(cos\theta)& \text{(m<0)}\\
+{\sqrt{2}}  K_l^mcos(m\varphi)P_l^m(cos\theta)& \text{(m>0)}\\
+
+{\sqrt{2}}  K_l^{m}sin(-m\varphi)P_l^{-m}(cos\theta)& \text{(m<0)}\\
+
 K_l^0P_l^0(cos\theta)& \text{(m=0)}
 \end{cases} %]]></script>
 
-<p>K为SH球谐函数的缩放因子，其公式表述如下：</p>
+<p>上述式子中$\theta,\varphi$是球面坐标系的表示，可以转换成笛卡尔坐标系使用x-y-z，后面球面均匀采样还会详细提到。$K_l^m$为SH球谐函数的缩放因子，其公式表述如下：</p>
 
 <script type="math/tex; mode=display">K_l^m = \sqrt{ \frac{2l+1}{4\pi} \frac{ (l-|m|)! }{ (l+|m|)! } }</script>
 
@@ -129,27 +131,29 @@ K_l^0P_l^0(cos\theta)& \text{(m=0)}
 
 <h4 id="l0">l=0:</h4>
 
-<script type="math/tex; mode=display">Y_0^0 = \frac{1}{2}\sqrt{\frac{1}{\pi}}  \tag{m = 0}</script>
+<script type="math/tex; mode=display">Y_0^0 = s = \frac{1}{2} \sqrt{\frac{1}{\pi}}  \tag{m = 0}</script>
 
 <h4 id="l1">l=1:</h4>
 
-<script type="math/tex; mode=display">Y_1^{-1} = \sqrt{\frac{3}{4\pi}}\frac{y}{r}\ \tag{m =-1}</script>
+<script type="math/tex; mode=display">Y_1^{-1} = p_y =  i \sqrt{\frac{1}{2}} \left( Y_1^{- 1} + Y_1^1 \right) = \sqrt{\frac{3}{4 \pi}} \cdot \frac{y}{r}\ \tag{m =-1}</script>
 
-<script type="math/tex; mode=display">Y_1^0 = \sqrt{\frac{3}{4\pi}}\frac{z}{r}\ \tag{m = 0}</script>
+<script type="math/tex; mode=display">Y_1^0 = p_z = \sqrt{\frac{3}{4 \pi}} \cdot \frac{z}{r}\ \tag{m = 0}</script>
 
-<script type="math/tex; mode=display">Y_1^1 = \sqrt{\frac{3}{4\pi}}\frac{x}{r}\ \tag{m = 1}</script>
+<script type="math/tex; mode=display">Y_1^1 = p_x = \sqrt{\frac{1}{2}} \left( Y_1^{- 1} - Y_1^1 \right) = \sqrt{\frac{3}{4 \pi}} \cdot \frac{x}{r}\ \tag{m = 1}</script>
 
 <h4 id="l2">l=2:</h4>
 
-<script type="math/tex; mode=display">Y_2^{-2} = \frac{1}{2}\sqrt{\frac{15}{\pi}}\frac{xz}{r^2}\ \tag{m =-2}</script>
+<script type="math/tex; mode=display">Y_2^{-2} =d_{xy} = i \sqrt{\frac{1}{2}} \left( Y_2^{- 2} - Y_2^2\right)= \frac{1}{2} \sqrt{\frac{15}{\pi}} \cdot \frac{x y}{r^2}\ \tag{m =-2}</script>
 
-<script type="math/tex; mode=display">Y_2^{-1} = \frac{1}{2}\sqrt{\frac{15}{\pi}}\frac{yz}{r^2}\ \tag{m =-1}</script>
+<script type="math/tex; mode=display">Y_2^{-1} = d_{yz} = i \sqrt{\frac{1}{2}} \left( Y_2^{- 1} + Y_2^1 \right)  = \frac{1}{2} \sqrt{\frac{15}{\pi}} \cdot \frac{y z}{r^2}\ \tag{m =-1}</script>
 
-<script type="math/tex; mode=display">Y_2^{-1} = \frac{1}{4}\sqrt{\frac{15}{\pi}}\frac{-x^2-z^2+2y^2}{r^2}\ \tag{m = 0}</script>
+<script type="math/tex; mode=display">Y_2^0 = d_{z^2}  = \frac{1}{4} \sqrt{\frac{5}{\pi}} \cdot \frac{- x^2 - y^2 + 2 z^2}{r^2}\ \tag{m = 0}</script>
 
-<script type="math/tex; mode=display">Y_2^1 = \frac{1}{2}\sqrt{\frac{15}{\pi}}\frac{xy}{r^2}\ \tag{m = 1}</script>
+<script type="math/tex; mode=display">Y_2^1 = d_{xz} = \sqrt{\frac{1}{2}} \left( Y_2^{- 1} - Y_2^1 \right) = \frac{1}{2} \sqrt{\frac{15}{\pi}} \cdot \frac{z x}{r^2}\ \tag{m = 1}</script>
 
-<script type="math/tex; mode=display">Y_2^2 = \frac{1}{4}\sqrt{\frac{15}{\pi}}\frac{x^2-z^2}{r^2}\ \tag{m = 2}</script>
+<script type="math/tex; mode=display">Y_2^2 = d_{x^2-y^2} = \sqrt{\frac{1}{2}} \left( Y_2^{- 2} + Y_2^2 \right) = \frac{1}{4} \sqrt{\frac{15}{\pi}} \cdot \frac{x^2 - y^2 }{r^2}\ \tag{m = 2}</script>
+
+<p><em>代入m和l推导更多的简化公式<a href="https://en.wikipedia.org/wiki/Table_of_spherical_harmonics">参考wiki</a></em></p>
 
 <p>由于球谐基函数阶数是无限的，所以只能取前面几组基来近似，一般在光照中大都取3阶，也即9个球谐系数。对于每个球谐波，我们将其值绘制在球体表面上，然后绘制在极性中。通过改变前一个球体的半径简单地获得极坐标图。</p>
 
@@ -162,29 +166,28 @@ K_l^0P_l^0(cos\theta)& \text{(m=0)}
 
 <h2 id="球面均匀采样">球面均匀采样</h2>
 
-<p>先给一下球面坐标的弧度表达式(r表示球的半径):</p>
+<p>球面坐标系使用$r-\theta-\varphi$表达的球表面：</p>
+
+<p><img src="/img/post-engine/tex28.jpg" alt="" /></p>
+
+<p>对应的球面坐标的弧度表达式(r表示球的半径):</p>
 
 <script type="math/tex; mode=display">% <![CDATA[
 \left\{
 \begin{aligned}
-x & = r\cos\theta\cos\phi \\
-y & = r\sin\theta\cos\phi \\
-z & = r\cos\phi
+x & = r\cos\varphi\sin\theta \\
+y & = r\sin\varphi\sin\theta \\
+z & = r\cos\theta
 \end{aligned}
 \right. %]]></script>
 
-<center>
-    <img src="/img/post-engine/tex28.jpg" />
-</center>
-<p><br /><br /></p>
-
-<p>在球面上均匀采样的映射的表达式, 并不是均匀的变化球面参数<script type="math/tex">\theta</script> 和 <script type="math/tex">\phi</script>， 或者说如果我们直接给 [公式] 赋两个标准随机变量的话：</p>
+<p>在球面上均匀采样的映射的表达式, 并不是均匀的变化球面参数$\theta$ 和 $\varphi$， 或者说如果我们直接给 [公式] 赋两个标准随机变量的话：</p>
 
 <script type="math/tex; mode=display">% <![CDATA[
 \left\{
 \begin{aligned}
 \theta & = \xi_x \\
-\phi & = \xi_y
+\varphi & = \xi_y
 \end{aligned}
 \right. %]]></script>
 
@@ -192,7 +195,7 @@ z & = r\cos\phi
 
 <p><img src="/img/post-engine/tex22.jpg" alt="" /></p>
 
-<p>但是如果在<script type="math/tex">\theta-\phi</script>坐标系是均匀分布的：</p>
+<p>但是如果在<script type="math/tex">\theta-\varphi</script>坐标系是均匀分布的：</p>
 
 <p><img src="/img/post-engine/tex23.png" alt="" /></p>
 
@@ -204,7 +207,7 @@ z & = r\cos\phi
 \left\{
 \begin{aligned}
 \theta & = 2arccos(\sqrt{1-\xi_x}) \\
-\phi & = 2\pi\xi_y
+\varphi & = 2\pi\xi_y
 \end{aligned}
 \right. %]]></script>
 
@@ -246,7 +249,9 @@ z & = r\cos\phi
 
 <script type="math/tex; mode=display">\int_S f1(s)f2(s)ds = \vec{c1}  \cdot \vec{c2} = \sum_{i=0}^{N}\vec{c1_i} \cdot \vec{c2_i}</script>
 
-<p>我们在glsl中重建球谐函数如下：</p>
+<p>一般我们可以用SH coefficients来编码低频的环境光（因为边缘是亮度变化剧烈的高频信息，所以用SH来编码看起来糊糊的indirect lighting其实是比较合适的，例如拿来编码天光skylight）。阶数越高，一般重建的质量越高。但是很难重构得像原图那么精致了，毕竟只有少量的系数，只能重构出大概的信息</p>
+
+<p>我们在glsl中重建4阶球谐函数如下：</p>
 
 <div class="language-glsl highlighter-rouge"><pre class="highlight"><code><span class="kt">void</span> <span class="nf">main</span><span class="p">(</span><span class="kt">void</span><span class="p">)</span>
 <span class="p">{</span>
@@ -290,6 +295,8 @@ z & = r\cos\phi
 <p>在<a href="https://github.com/huailiang/OpenGLEngine">引擎</a>里运行的效果如下图:</p>
 
 <p><img src="/img/post-engine/tex24.jpg" alt="" /></p>
+
+<p><img src="/img/post-engine/tex30.jpg" alt="" /></p>
 
 <h2 id="unity中的球谐光照应用">Unity中的球谐光照应用</h2>
 
@@ -377,7 +384,7 @@ z & = r\cos\phi
 
 <p><img src="/img/post-engine/tex27.jpg" alt="" /></p>
 
-<p>分享提到游戏中间接光用cubemamp做GI Specular，用SH probe做GI diffuse。 不过让我产生疑问的是， 既然使用了SH 球谐面了， 就没必要在去生成cubemap了。 因为使用SH函数，完全就可以还原物体周围的环境辐射图了。 而且他这个cubemap肯定不包含近景的间接光信息， 否则的话实时生成间接光就太耗了， 可能是是只有远景的间接光信息， 在一个场景里只会对应这样一个cubemap。 这完全就我自己猜测的，具体的原因只有他本人知道了。</p>
+<p>分享提到游戏中间接光用cubemamp做GI Specular，用SH probe做GI diffuse。因为球谐预计算的本质是内积操作，类似对环境cubemap模糊的算法，而且球谐的阶数不能设太高，太高运算会成指数成长，性能就不太划算了，所以比较适合diffuse, 而对于高光的计算，为了还原更高的细节，比如镜面反射周边的环境，这时候使用IBL更合适些。</p>
 
 <p><img src="/img/post-engine/tex26.jpg" alt="" /></p>
 
@@ -395,7 +402,7 @@ z & = r\cos\phi
 
 <h2 id="学习资料">学习资料</h2>
 <ul>
-  <li><a href="http://smellysheep.com/2018/03/%E7%90%83%E8%B0%90%E5%87%BD%E6%95%B0%E5%8F%8A%E5%85%B6%E4%BD%9C%E5%9B%BE/">球谐函数及其作图 - python </a></li>
+  <li><a href="http://smellysheep.com/2018/03/球谐函数及其作图/">球谐函数及其作图 - python </a></li>
   <li><a href="http://www.yasrt.org/shlighting/">Spherical Harmonic Lighting Program</a></li>
   <li><a href="http://www.paulsprojects.net/opengl/sh/sh.html">Spherical Harmonics</a></li>
   <li><a href="https://www.researchgate.net/publication/234765403_Precomputed_radiance_transfer">Precomputed Radiance Transfer:Theory and Practice</a></li>
@@ -522,7 +529,7 @@ z & = r\cos\phi
   <li><a href="https://github.com/huailiang" target="_blank"><i class="icon icon-github"></i></a></li>
 </ul>
     <p class="txt-medium-gray">
-      <small>&copy;2019 All rights reserved. </small>
+      <small>&copy;2020 All rights reserved. </small>
     </p>
   </div>
 </footer>

diff --git a/blog/2018/exportcpp/index.html b/blog/2018/exportcpp/index.html
@@ -501,7 +501,7 @@ cmake -DCMAKE_TOOLCHAIN_FILE<span class="o">=</span>toolchains/ios.toolchain.cma
   <li><a href="https://github.com/huailiang" target="_blank"><i class="icon icon-github"></i></a></li>
 </ul>
     <p class="txt-medium-gray">
-      <small>&copy;2019 All rights reserved. </small>
+      <small>&copy;2020 All rights reserved. </small>
     </p>
   </div>
 </footer>

diff --git a/blog/2018/protobuf/index.html b/blog/2018/protobuf/index.html
@@ -357,7 +357,7 @@ osx 需要把 c++代码编译成 bundle格式的库文件，需要新建一个 x
   <li><a href="https://github.com/huailiang" target="_blank"><i class="icon icon-github"></i></a></li>
 </ul>
     <p class="txt-medium-gray">
-      <small>&copy;2019 All rights reserved. </small>
+      <small>&copy;2020 All rights reserved. </small>
     </p>
   </div>
 </footer>

diff --git a/blog/2018/tensor/index.html b/blog/2018/tensor/index.html
@@ -674,7 +674,7 @@ W: <span class="o">[</span>1.97131],b: <span class="o">[</span>-0.93244034],loss
   <li><a href="https://github.com/huailiang" target="_blank"><i class="icon icon-github"></i></a></li>
 </ul>
     <p class="txt-medium-gray">
-      <small>&copy;2019 All rights reserved. </small>
+      <small>&copy;2020 All rights reserved. </small>
     </p>
   </div>
 </footer>

diff --git a/blog/2019/cuda/index.html b/blog/2019/cuda/index.html
@@ -910,7 +910,7 @@ NVTOOLSEXT_PATH：  C:<span class="se">\P</span>rogram Files<span class="se">\N<
   <li><a href="https://github.com/huailiang" target="_blank"><i class="icon icon-github"></i></a></li>
 </ul>
     <p class="txt-medium-gray">
-      <small>&copy;2019 All rights reserved. </small>
+      <small>&copy;2020 All rights reserved. </small>
     </p>
   </div>
 </footer>

diff --git a/blog/2019/ndk/index.html b/blog/2019/ndk/index.html
@@ -588,7 +588,7 @@ LOCAL_ALLOW_UNDEFINED_SYMBOLS :<span class="o">=</span> <span class="nb">true</s
   <li><a href="https://github.com/huailiang" target="_blank"><i class="icon icon-github"></i></a></li>
 </ul>
     <p class="txt-medium-gray">
-      <small>&copy;2019 All rights reserved. </small>
+      <small>&copy;2020 All rights reserved. </small>
     </p>
   </div>
 </footer>

diff --git a/blog/2019/vulkan/index.html b/blog/2019/vulkan/index.html
@@ -665,7 +665,7 @@ Semaphore和Fence有相同之处，但是使用场景却不一样。Semaphore和
   <li><a href="https://github.com/huailiang" target="_blank"><i class="icon icon-github"></i></a></li>
 </ul>
     <p class="txt-medium-gray">
-      <small>&copy;2019 All rights reserved. </small>
+      <small>&copy;2020 All rights reserved. </small>
     </p>
   </div>
 </footer>
